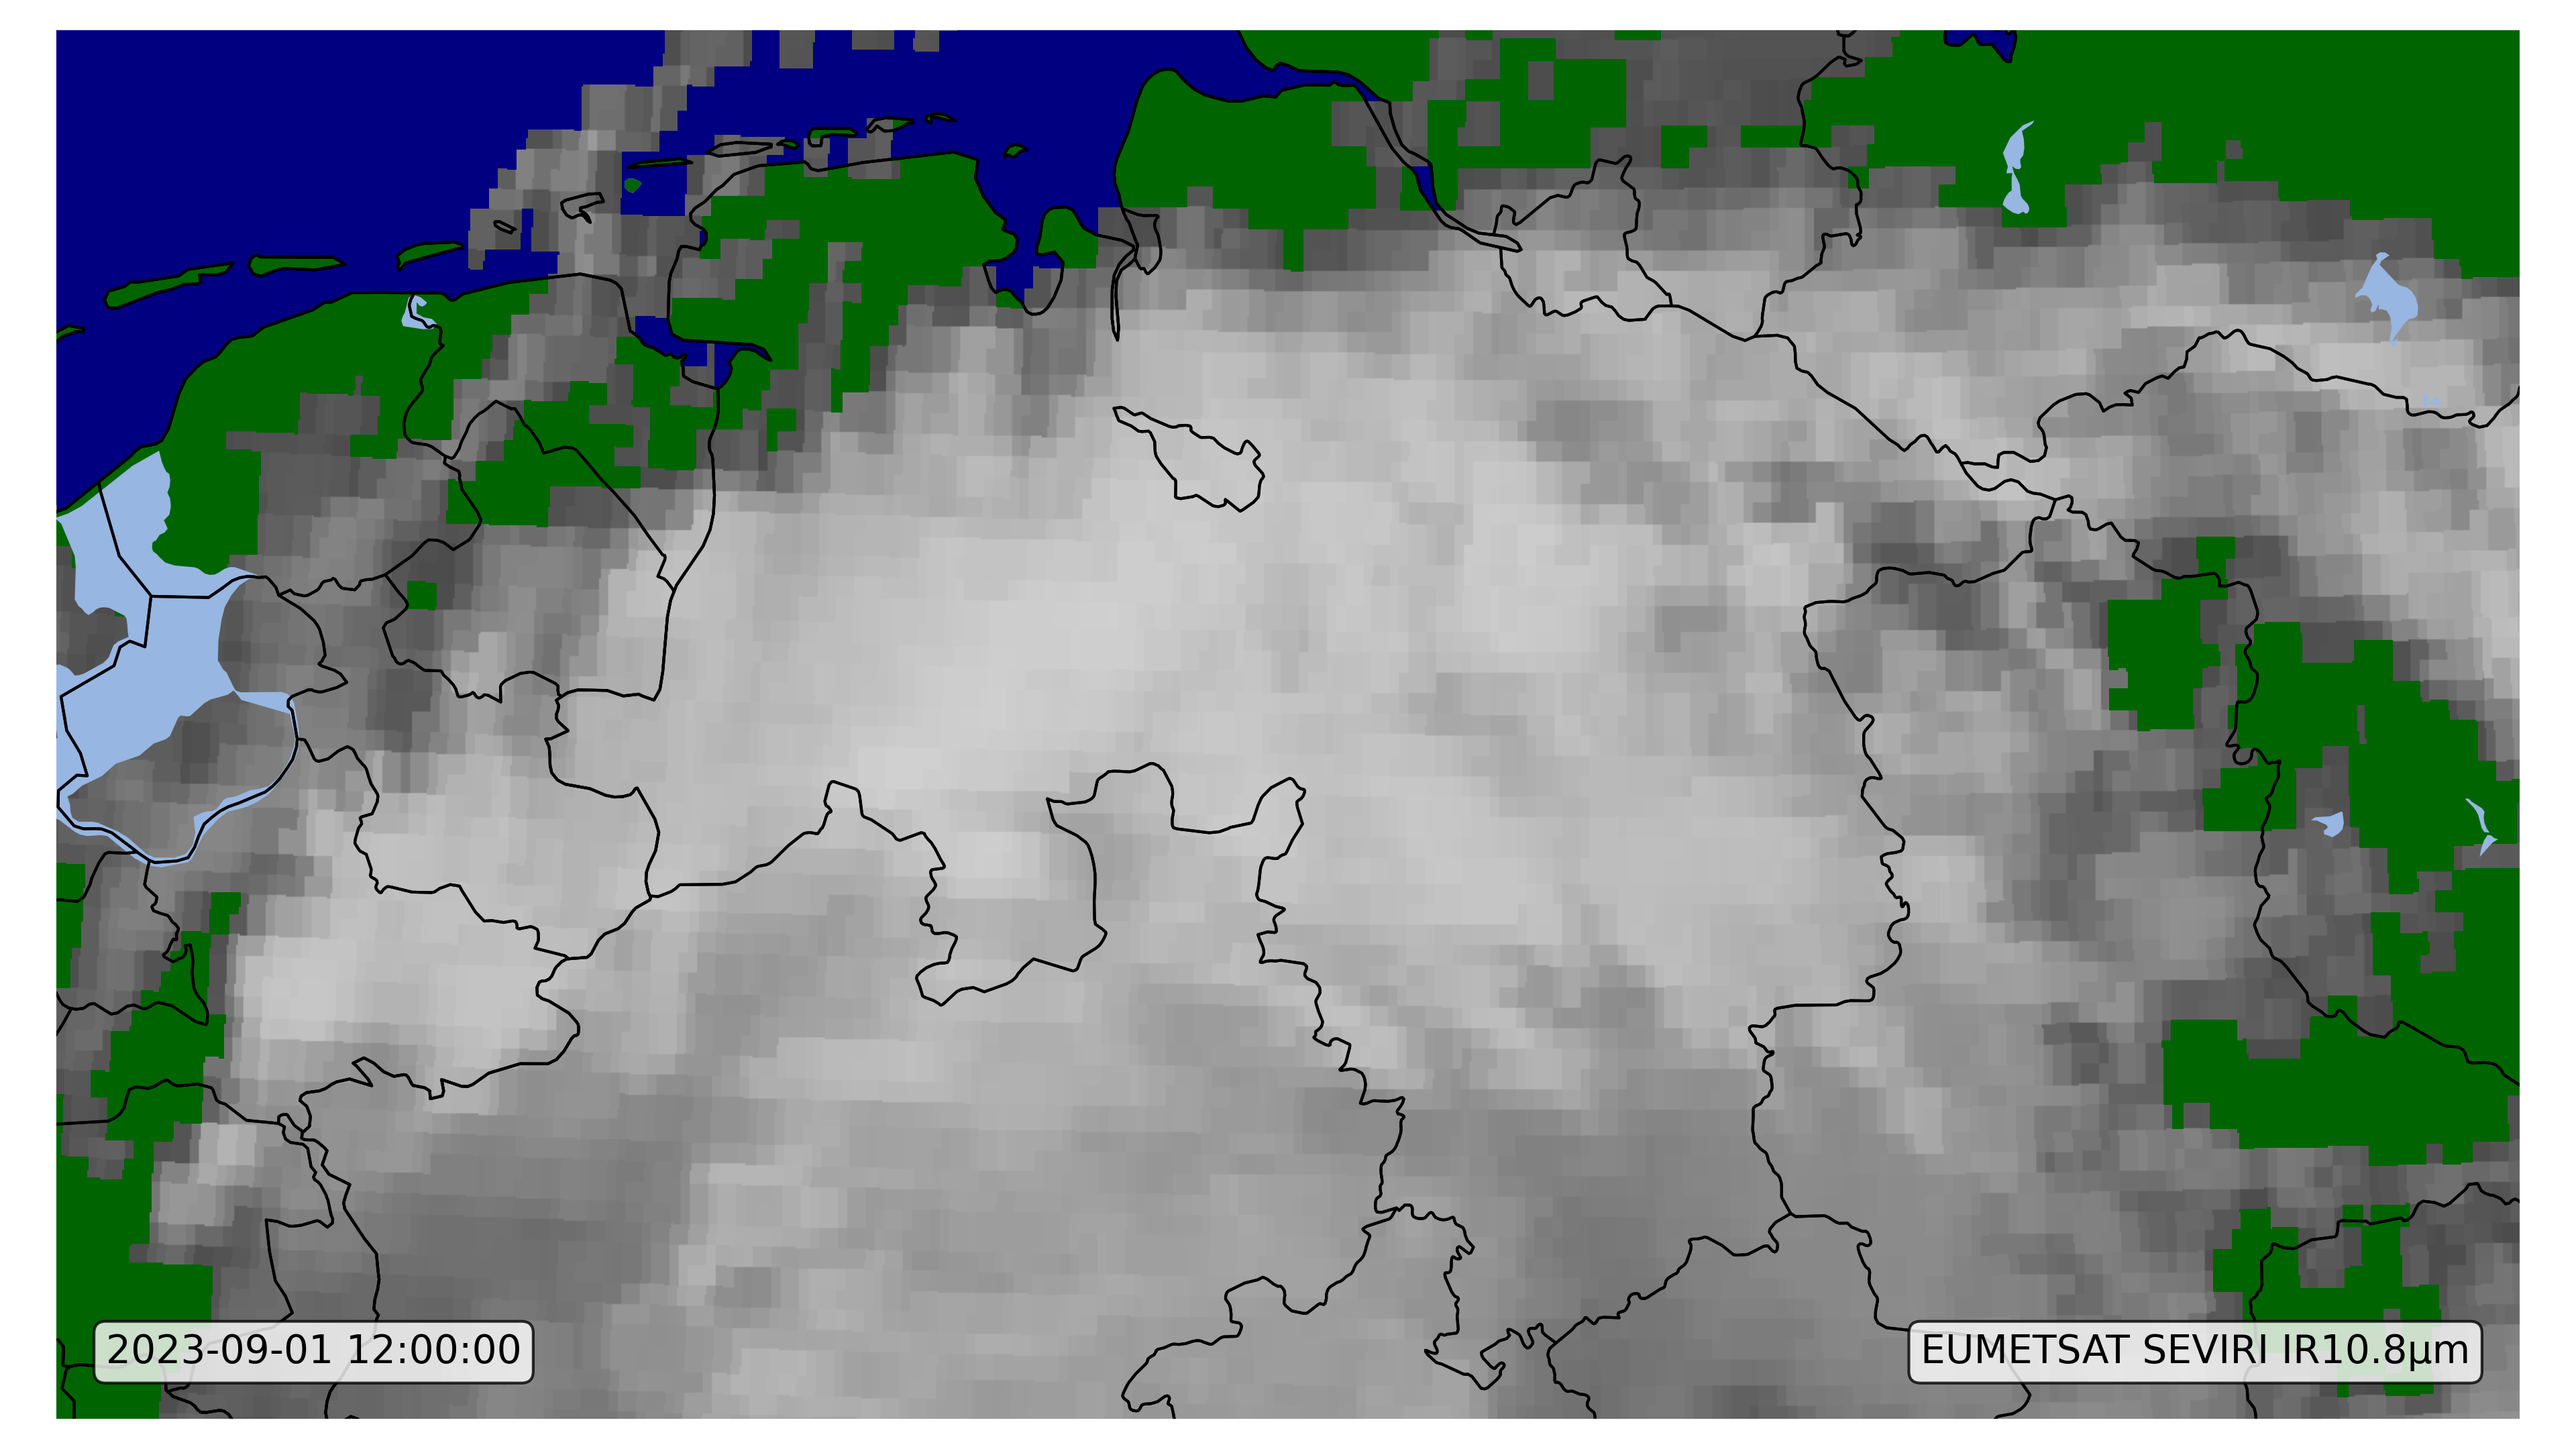
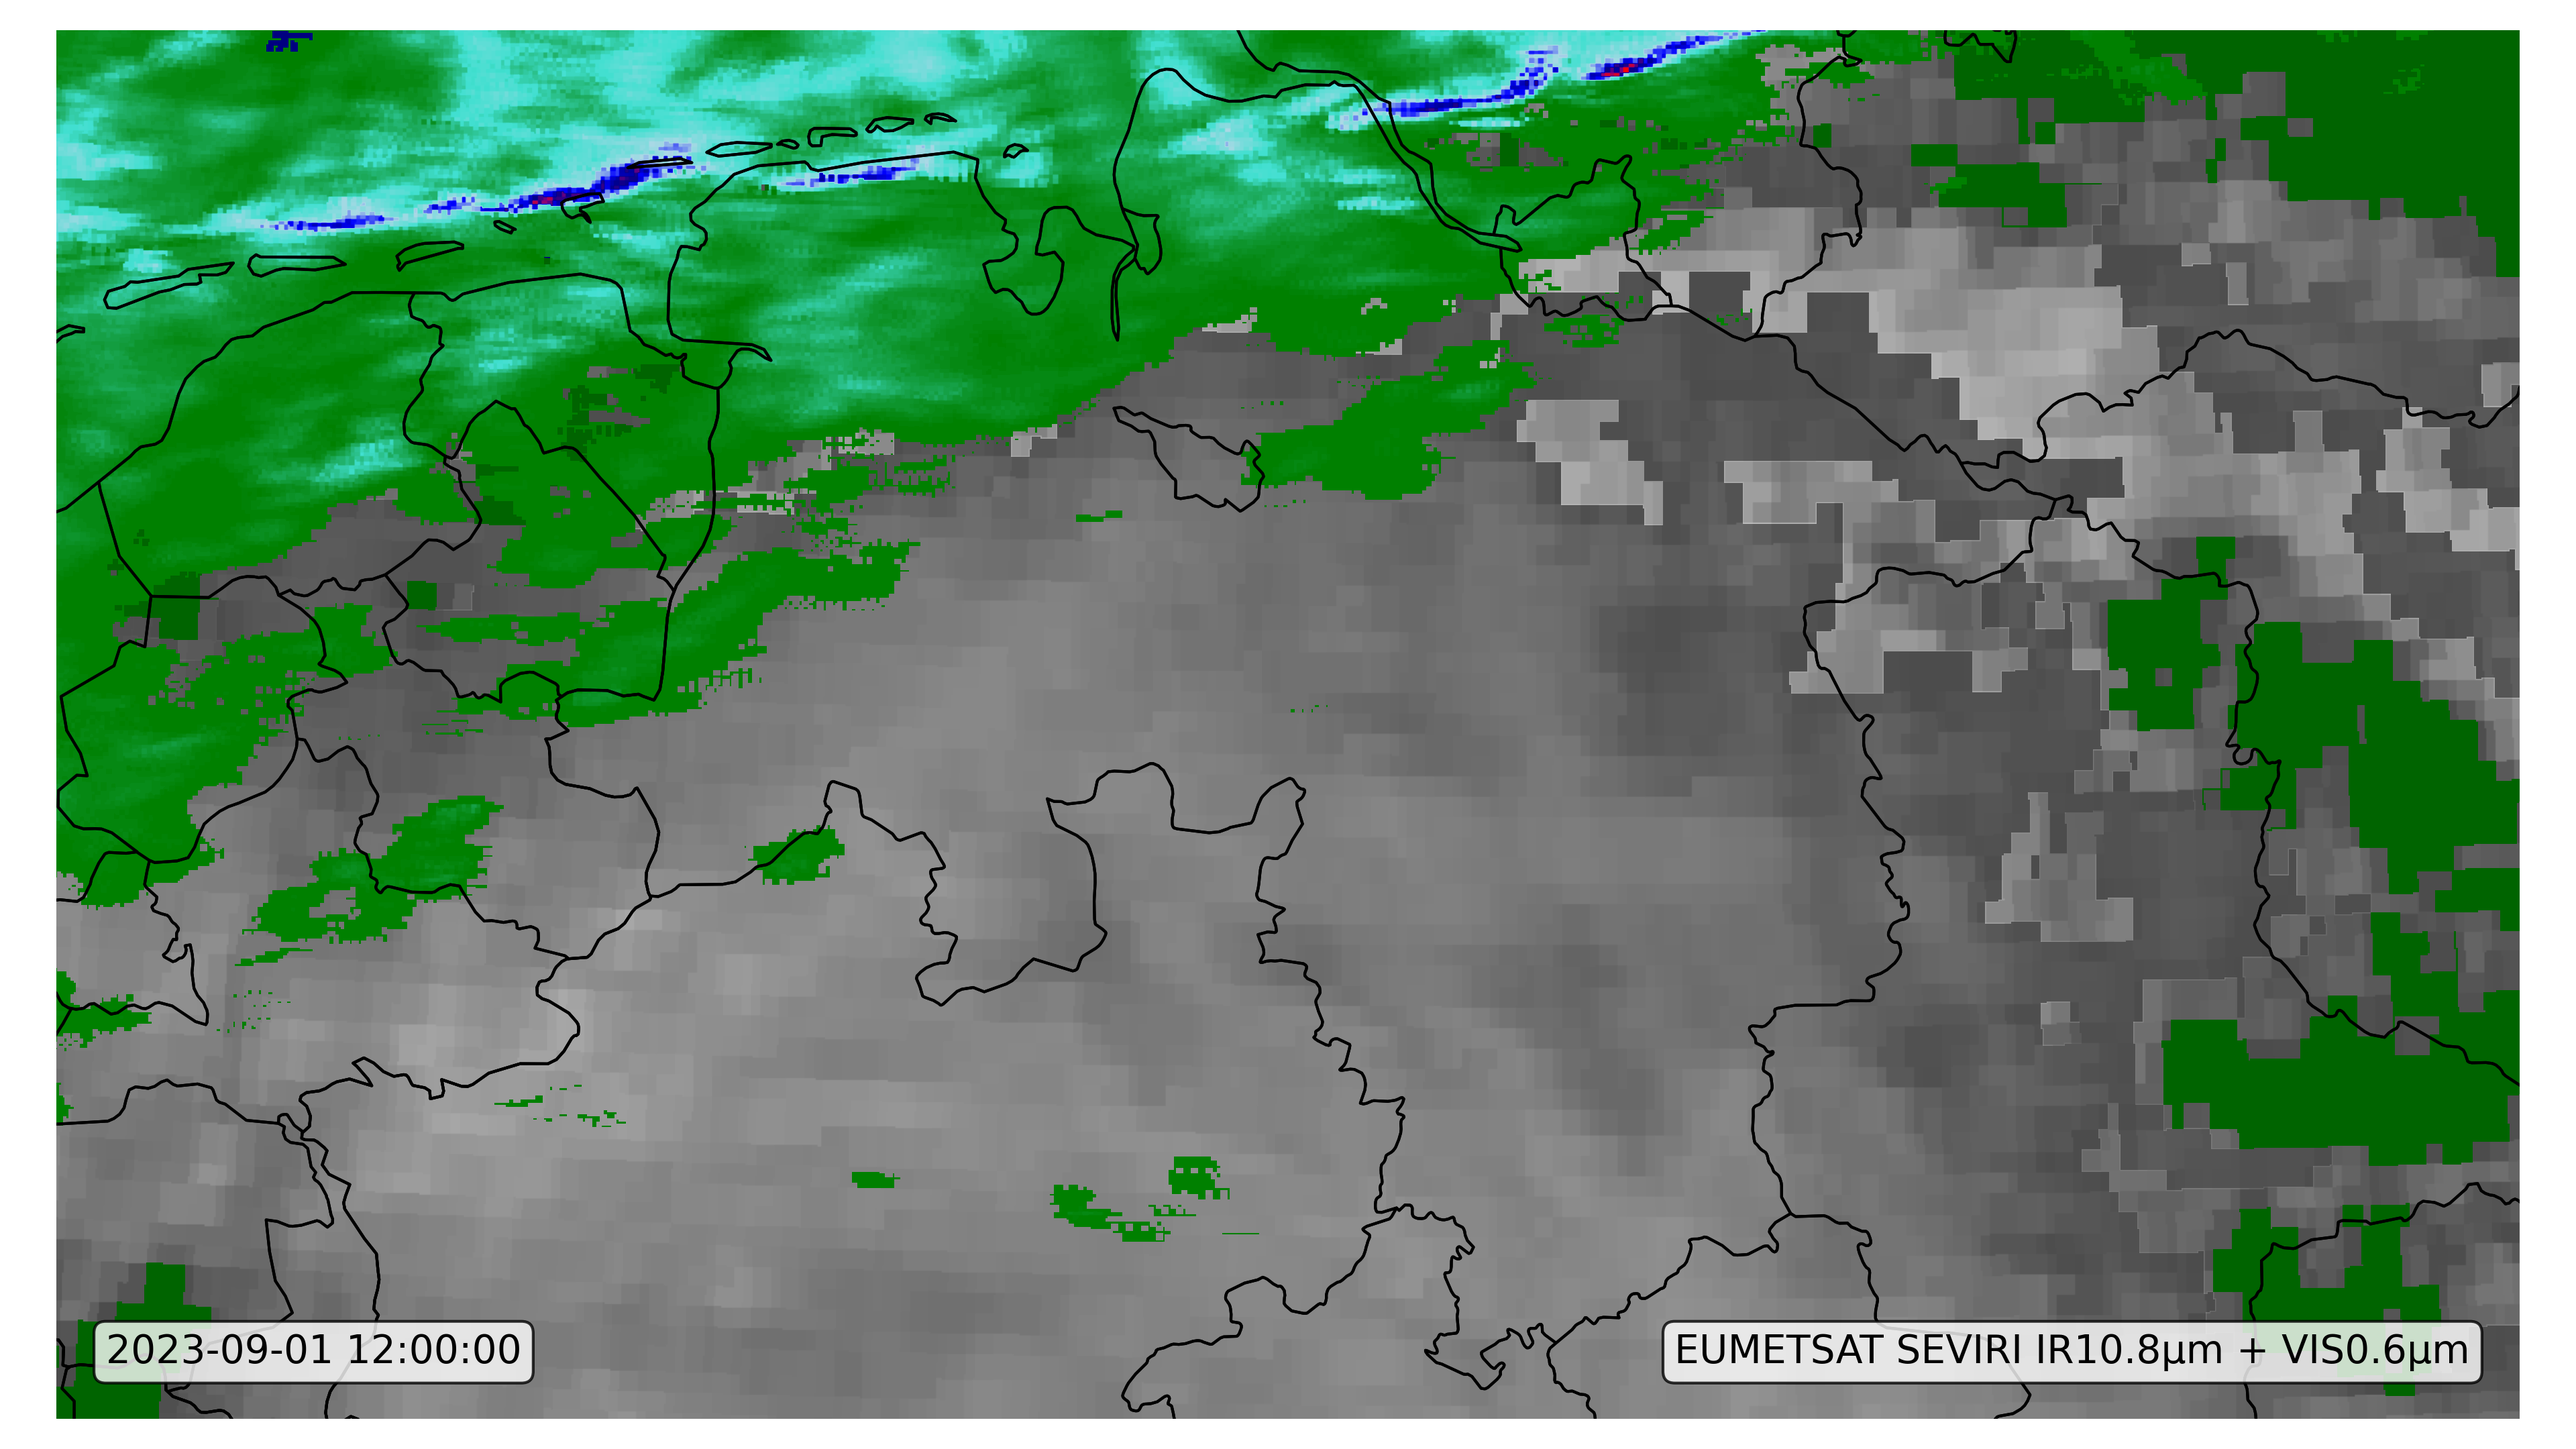
fix

diff --git a/products/satelite/satelites.py b/products/satelite/satelites.py
@@ -160,6 +160,23 @@ class satelite_image:
         #ax.add_feature(cfeature.OCEAN)#, facecolor='navy')
         if self.name =="lower_saxony":
             ax.add_feature(cfeature.STATES)
+        elif self.name == "hannover":
+            ax.add_feature(cfeature.STATES)
+            rivers_10m = cfeature.NaturalEarthFeature('physical', 'rivers_lake_centerlines', '10m',
+                                edgecolor='face',
+                                facecolor="blue",#cfeature.COLORS['water'],
+                                zorder=0)
+            lake_10m = cfeature.NaturalEarthFeature('physical', 'lakes', '10m',
+                                edgecolor='face',
+                                facecolor="blue",#cfeature.COLORS['water'],
+                                zorder=0)
+            urban_10m = cfeature.NaturalEarthFeature('cultural', 'urban_areas', '10m',
+                    edgecolor='face',
+                    facecolor="red",#cfeature.COLORS['water'],
+                    zorder=0)
+            ax.add_feature(rivers_10m)
+            ax.add_feature(lake_10m)
+            ax.add_feature(urban_10m)
         ax.add_feature(cfeature.BORDERS)
         #if self.name !="europe":
          #   ax.add_feature(cfeature.LAKES)
@@ -194,10 +211,10 @@ class satelite_image:
 
 
         extent = (-70, 70, 24, 72) #self.bbox
-        ax.imshow(output_image_ir, origin='upper', transform=ccrs.PlateCarree(), extent=extent, cmap='gray', vmin=0,
+        ax.imshow(output_image_ir, origin='upper', transform=ccrs.PlateCarree(), extent=extent, alpha=0.6,cmap='gray', vmin=0,
                   vmax=255)
 
-        ax.imshow(output_image_vis, origin='upper', transform=ccrs.PlateCarree(), extent=extent, cmap='gray', vmin=0,
+        ax.imshow(output_image_vis, origin='upper', transform=ccrs.PlateCarree(), extent=extent, alpha=0.6,cmap='gray', vmin=0,
                   vmax=255)
 
 
@@ -278,7 +295,7 @@ class satelite_image:
 
             # Erstelle die benutzerdefinierte Colormap
             color_list = list(zip(normalized_values, colorss))
-            
+
             custom_cmap = LinearSegmentedColormap.from_list('custom_colormap', color_list)
 
             #custom_cmap = LinearSegmentedColormap.from_list('custom_colormap', colors)
@@ -345,21 +362,21 @@ def singlemaps():
 
     #europe.remap()
 
-    print("starting germany")
+    #print("starting germany")
     #germany = satelite_image( 47, 55,5, 15,time,"germany")#,bbox=(0,20,40,60), region="germany")#,radar=True)
-    germany = satelite_image( 46.3, 56,1.9, 19.1,time,"germany",radar=True)
-    germany.remap()
+    #germany = satelite_image( 46.3, 56,1.9, 19.1,time,"germany",radar=True)
+    #germany.remap()
 
-    print("starting lower_saxony")
-    lower_saxony = satelite_image( 51.2, 53.9,5.2, 13.,time,"lower_saxony",radar=True)
+    #print("starting lower_saxony")
+    #lower_saxony = satelite_image( 51.2, 53.9,5.2, 13.,time,"lower_saxony",radar=True)
 
-    lower_saxony.remap()
+    #lower_saxony.remap()
 
 
-   # print("starting hannover")
-  #  hannover = satelite_image(52.117469,52.604716,9,10.5,time,"hannover")
+    print("starting hannover")
+    hannover = satelite_image(52.117469,52.604716,9,10.5,time,"hannover",radar=True)
 
-    #hannover.remap()
+    hannover.remap()
     return
 def multimap():
     for quart in range(0,10,1):

diff --git a/readme.md b/readme.md
@@ -11,8 +11,7 @@ Using opendata from the dwd and NOAA to visualize and display synoptic Data
 ![Satellite](ressources/documentation/pics/sat_irvis.png)
 ![Satellite](ressources/documentation/pics/europe.png)
 
-
-
+![Satellite](ressources/documentation/pics/germany.png)
 <div style="display: flex; justify-content: space-between;">
     <img src="ressources/documentation/pics/lower_saxony.png" alt="Bild 2" width="50%">
     <img src="ressources/documentation/pics/hannover.png" alt="Bild 3" width="50%">
